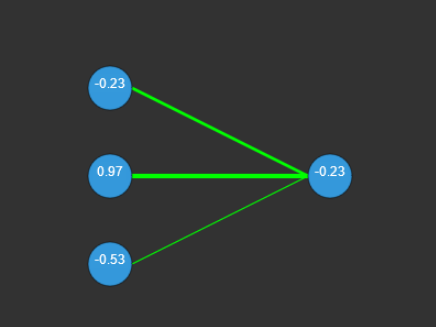
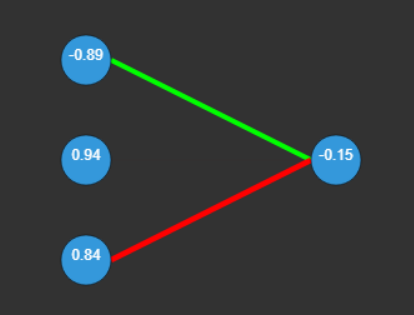
Update documentation

Changed region(s): [[0.1449, 0.1143, 0.8696, 0.9143]]

diff --git a/documentation/description.md b/documentation/description.md
@@ -4,57 +4,118 @@
 
 W ptasim świecie zorganizowono igrzyska śmierci, gdzie przetrwają tylko najlepsi...
 
-Grę rozpoczyna $250$ śmiałków. Ich celem jest osiągnięcie $100$ punktów, co oznacza pokonanie przez którego-kolwiek z grupy zawodników, $100$ morderczych przeszkód. Podczas igrzysk panują zasady doboru naturalnego. Jedynie garstka $10$% nalepszych pozostaje przy życiu. Co każdą rundę 
+Grę rozpoczyna $250$ śmiałków a w trakcie panują zasady doboru naturalnego. Co każdą rundę jedynie garstka ($10$% nalepszych) pozostaje przy życiu i przechodzi dalej. Następnie zachodzi proces reprodukcji, żeby usupełnić brakujące $90$% wojowników, a nieudacznicy są eliminowani. Celem jest osiągnięcie $100$ punktów, co oznacza pokonanie przez któregokolwiek z grupy zawodników, $100$ przeszkód.
 
-### Opis Gry
+![Zdjęcie gry](game2.png)
+[Rys 1 - Demonstracja igrzysk]
 
-genetycznego. Celem gry Flappy Bird jest przeprowadzenie ptaka przez przeszkody, które pojawiają się na ekranie. Ptak może poruszać się tylko w górę i w dół, a przeszkody pojawiają się na różnych wysokościach. Gracz zdobywa punkt za każdą przeszkodę, którą ptak przeleci. Jeśli ptak uderzy w przeszkodę lub spadnie na ziemię, rozgrywka kończy się. 
+### Opis Gry Flappy Bird
 
-![Zdjęcie gry](game.png)
-[Rys 1 - Zdjęcie początku gry z populacją 500 osobników]
+Celem gry Flappy Bird jest przeprowadzenie ptaka przez przeszkody, które pojawiają się na ekranie. Ptak może poruszać się tylko w górę i w dół, a przeszkody pojawiają się na różnych wysokościach. Gracz zdobywa punkt za każdą przeszkodę, którą ptak przeleci. Jeśli ptak uderzy w przeszkodę lub spadnie na ziemię, rozgrywka kończy się. 
+
+![Zdjęcie gry](game1.png)
+[Rys 2 - Demonstracja gry]
 
 ## Rozwiązanie Problemu
 
-Do osiągnięcia zamierzonego celu wykorzystano algorytm NEAT (ang. Neuroevolution of Augmenting Topologies - pl. Neuroewolucja z Rozszerzaniem Topologii). Algorytm NEAT jest jednym z rodziny algorytmów genetycznych. Wykorzystuje ewolucję sieci neuronowych, pozwalając na adaptacyjne trenowanie sztucznych graczy w grze Flappy Bird. Każdy sztuczny gracz jest reprezentowany przez sieć neuronową, która podejmuje decyzje (skok/nie skok) na podstawie analizy danych wejściowych.
+Do osiągnięcia zamierzonego celu wykorzystano algorytm **NEAT** (ang. *Neuroevolution of Augmenting Topologies* - pl. Neuroewolucja z Rozszerzaniem Topologii), który jest jednym z rodziny **algorytmów genetycznych**. Wykorzystuje ewolucję sieci neuronowych, pozwalając na adaptacyjne trenowanie sztucznych graczy w grze Flappy Bird. Każdy sztuczny gracz jest reprezentowany przez sieć neuronową, która podejmuje decyzje (skok/nie skok) na podstawie analizy danych wejściowych.
 
-### Struktura Algorytmu NEAT
+### Genom
 
-#### Parametry sieci
+Każdy wojowniczy ptak jest reprezentowany poprzez swój **genom**, który jest *(siecią neuronową)*. 
 
 Sztuczna sieć neuronowa to model obliczeniowy inspirowany strukturą ludzkiego mózgu. Ludzki mózg składa się z ogromnej liczby komórek nerwowych, zwanych neuronami. Neurony działają w bardzo prosty sposób. Jeśli przychodzące bodźce są wystarczająco silne, neuron przesyła impuls elektryczny, wzdłuż swojego aksonu do innych neuronów, które są z nim połączone. Neuron działa więc jak przełącznik typu "wszystko albo nic", który przyjmuje zestaw sygnałów wejściowych i albo wysyła informajcę dalej, albo nie wysyła niczego. [Deep Learning - John D. Kelleher](). 
 
 Modelowy neuron jest nazywany jednostką progową, a jego wartość $z$ liczona jest przy pomocy funkcji sumy:
+
 $$
 z=\sum_{i=1}^{N} {w_{i}x_{i}}
 $$
-gdzie $[x_{1},\dots,x_{N}]$ jest zbiorem wartości wejściowych dla $N$ połączeń, przy czym każde połączenie ma określoną wagę $[w_{1},\dots,w_{N}]$. Neuron otrzymuje dane wejściowe od wielu innych jednostek lub źródeł zewnętrznych, mnoży każde wejście przez określone wagi połączeń i sumuje je. [Rys 2] przedstawia strukturę sztucznego neuronu.
 
-![Alt text](ann.png)  
-[Rys 2]
+gdzie $[x_{1},\dots,x_{N}]$ jest zbiorem wartości wejściowych dla $N$ połączeń, przy czym każde połączenie ma określoną wagę $[w_{1},\dots,w_{N}]$. Neuron otrzymuje dane wejściowe od wielu innych jednostek, mnoży każde wejście przez określone wagi połączeń a następnie sumuje je. [Rys 3] przedstawia strukturę sztucznego neuronu.
 
-Sieć użyta w rozwiązaniu, jako genom, składa się z 2 warstw. Warstwa wejściowa złożona jest z 3 neuronów, natomiast warstwa wyjściowa tylko z 1. Każdy neuron w warstwie wejściowej jest połączony z neuronem wyjściowym. 
+![Struktura ANN](ann.png)  
+[Rys 3]
 
-![Przykładowy startowy stan genomu](network.png)  
-[Rys 3 - Stan startowy genomu przykładowego badanego osobnika, liczby oznaczają wartości bias, natomiast grubość połączeń ich wagę]
+W kolejnym kroku wartość sumy ważonej $z$ dla danego neuronu przekazywana jest do określonej funkcji aktywacji. 
 
-#### Proces ewolucji
+Sieć każdego ptaka składa się tylko z 2 warstw. Warstwa wejściowa złożona jest z 3 neuronów, natomiast warstwa wyjściowa tylko z 1. Każdy neuron w warstwie wejściowej jest połączony z neuronem wyjściowym. Poniżej na [Rys 4] widzimy przykład genomu. Wagi połączeń są oznaczone grubością linii, na zielono są wartości pozytywne, a na czerwono negatywne. Liczby w neuronach oznaczają wartości biasów. Zastosowana funcja aktywacji to sigmoida (funkcja logiczna), jej wykres przedstawia [Rys 5]. Opisuje ją równanie:
 
-Początkowo dla każdego osobnika zostaje przydzielony genom z losowymi wartościami.
+$$
+f(x)=\frac{1}{1+e^{-x}}
+$$
 
-Następnie z każdą badaną generacją wykorzystany algorytm NEAT stosuje strategie zarówno eksploracyjne, jak i eksploatacyjne, próbując znaleźć optymalne rozwiązania w przestrzeni rozwiązań.
+![Przykładowy startowy stan genomu](image.png)
+[Rys 4]
 
-Jedną z tych strategii jest mutacja wag i biasów. Poprzez ich losowe zmiany, NEAT może optymalizować sieci neuronowe w celu osiągnięcia lepszego wyniku.
+![Sigmoid](sigmoid.png)
+[Rys 5 - funkcja logiczna]
 
-Kolejną ważną strategią jest elitycyzm. Jest to strategia selekcji, która zachowuje najlepsze osobniki z jednej generacji do następnej generacji bez dokonywania na nich żadnych zmian. Elitycyzm jest używany w celu zachowania informacji genetycznej najlepszych osobników i przekazania ich do kolejnych pokoleń w celu utrzymania stabilności i kontynuowania postępu ewolucyjnego.
+### Skoczyć, czy nie skoczyć?
 
-Jeszcze inną strategią jest krzyżowanie. Strategia ta odnosi się do losowego łączenia genotypów 2 osobników w celu stworzenia potomka dziedziczącego. Proces ten pozwala na większą eksplorację przestrzeni rozwiązań i zwiększenie różnorodności w populacji.
+Ewaluacja sieci dla każdego osobnika, następuje co każdą przebytą jednostkę długości. 
 
-## Wyniki
+**Dane wejściowe**
 
-- Tabela wyników | najlepszy osobnik każdej generacji w 10 generacjach + jego genotyp (wagi i biasy)
-- Tabela różnych startowych ustawień (populacja <50, 100> żeby nie za szybko też dochodziło), z informacją ile generacji/razem populacji do osiągnięca oczekiwanego wyniku
-- Interpretacja tych tabel
+Na wejściu do sieci neuronowej przekazywane są wartości współrzędnych $y$ dla 3 obiektów:
 
-## Podsumowanie
+1. Dolej rury
+2. Górnej rury
+3. Ptaka
 
-Algorytm NEAT w grze Flappy Bird umożliwia ewolucję zachowań graczy poprzez adaptacyjne uczenie się na podstawie wyników, co prowadzi do stopniowego poprawiania osiąganych wyników i zdolności graczy w grze.
+**Normalizacja**
+
+Niech wektor $\vec{x} = [x_{1}, x_{2}, x_{3}]$ będzie wektorem wejściowym. Wartości $\vec{x}$ są normalizowe do wartości z przedziału $[-5, 5]$ przy pomocy wzoru poniżej:
+
+$$
+x_{norm}=\frac{x-x_{min}}{x_{max}-x_{min}} \cdot (target_{max}-target_{min})+target_{min}
+$$
+
+$x$ - wartość wejściowa  
+$x_{min}$ - minimalna wartość wejściowa  
+$x_{max}$ - maksymalna wartość wejściowa  
+$target_{min}$ - minimalna wartość wyjściowa  
+$target_{max}$ - maksymalna wartość wyjściowa
+
+Znormalizowany $\vec{x}$ przekazywany jest na wejściu do sieci neuronowej. 
+
+**Dane wyjściowe**
+
+Po ewaluacji sieci, otrzymujemy wartość wyjściową $y$ z przedziału $[0, 1]$. Wartość ta jest porównywana z wartością progową $0.5$. Jeśli $y > 0.5$, to ptak skacze, w przeciwnym wypadku nie skacze.
+
+### Proces ewolucji
+
+Początkowo dla każdego osobnika zostaje przydzielony genom z pseudolosowymi wartościami wag połączeń jak i biasów. Wartości te są z przedziału $[-1,1]$. 
+
+**Ocena skuteczności**
+
+Z każdym kolejną przebytą jednostką długości, osobnik otrzymuje punkt (nie ten liczony na górze ekranu). Punkty te służą do oceny jakości osobnika. Im więcej punktów, tym lepszy osobnik. 
+
+**Selekcja elity**
+
+Jeśli w danej generacji cel pokonania $100$ przeszkód nie zostanie osiągnięty, to zostaje wybrana grupa licząca $25$ elitarnych ptaków. Jest to wartość wyliczana jako iloczyn wielkości populacji i procentu elitarności, w tym przypadku procent elitarności wynosi $0.1$. Wybrana elita przechodzi bezpośrednio do kolejnej generacji. 
+
+**Reprodukcja**
+
+W każdej generacji liczba zawodników jest taka sama. Po wybraniu elity, pozostaje nam $225$ osobników, którzy muszą zostać stworzeni. W pętli tworzone są nowe osobniki jako potomstwo z poprzedniej populacji.
+
+Z każdą iteracją wybieramy losowo 2 rodziców. Na ich bazie tworzony jest nowy genom, gdzie przy każdym połączeniu oraz neuronie, losowo wybierana jest wartość jednego z rodziców, która przechodzi do potomka. Dla połączeń będzie to wartość wagi, a dla neuronów wartość biasu.
+
+**Mutacja**
+
+W algorytmie ustawiona wartość stopnia mutacji na $0.1$. Oznacza to, że każdy nowopowstały osobnik ma $10$% szans na mutację. Mutacja polega na wygenerowaniu nowych  wartości połączeń lub neuronów. Wartośc te, tak jak w przypadku inicjalizacji sieci, są losowane z przedziału $[-1,1]$. Dzięki zastosowaniu mutowania osobników, dostarczamy trochę świeżości do populacji. Może pozwolić to w obejściu lokalnych minimów, które mogą wystąpić w populacji. Z drugiej strony zbyt wysokie prawdopodobieństwo mutacji, może spowodować, że populacja nie będzie w stanie się nauczyć, ponieważ każdy osobnik będzie zaczynał praktycznie od zera.
+
+**Maksymalna liczba generacji**
+
+Dana populacja ma $50$ generacji na osiągnięcie celu. Jeśli w ciągu tych $50$ generacji nie zostanie osiągnięty cel, to zostaje wybrana nowa populacja, a proces ewolucji rozpoczyna się od nowa. Jest to wprowadzone w celu uniknięcia sytuacji, w której następuje zastój.
+
+<!-- 
+1. Dorobić wykres z osiągnięciami populacji 
+    X - numer generacji
+    Y - liczba punktów (score na ekranie)
+
+2. Podsumowanie dokumentacji
+
+3. Poprawić schemat sieci, dodać przekazanie do funkcji aktywacji
+
+-->
